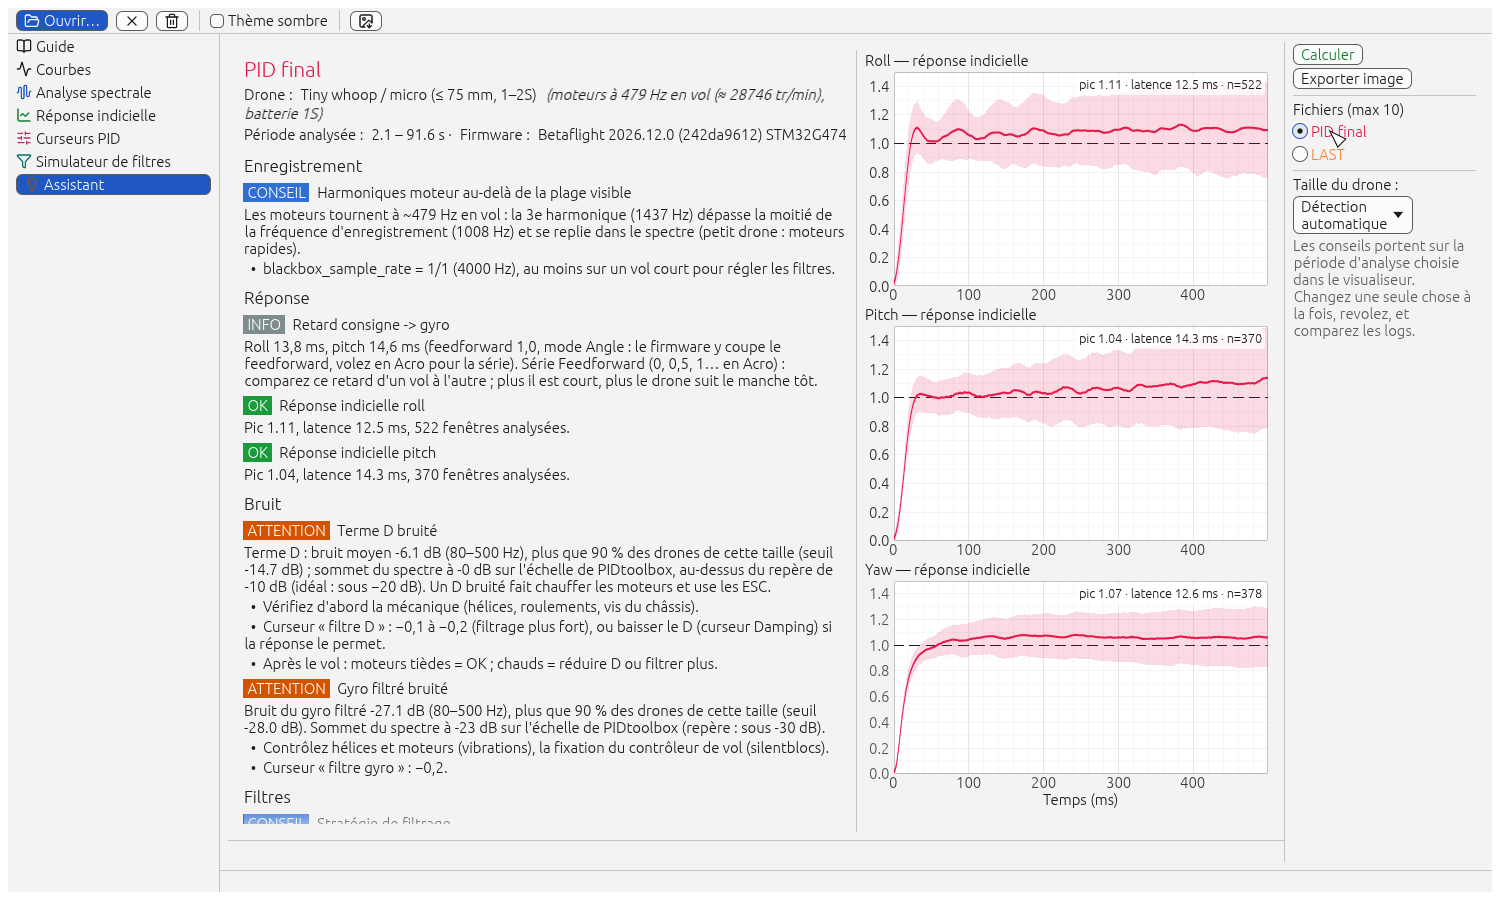
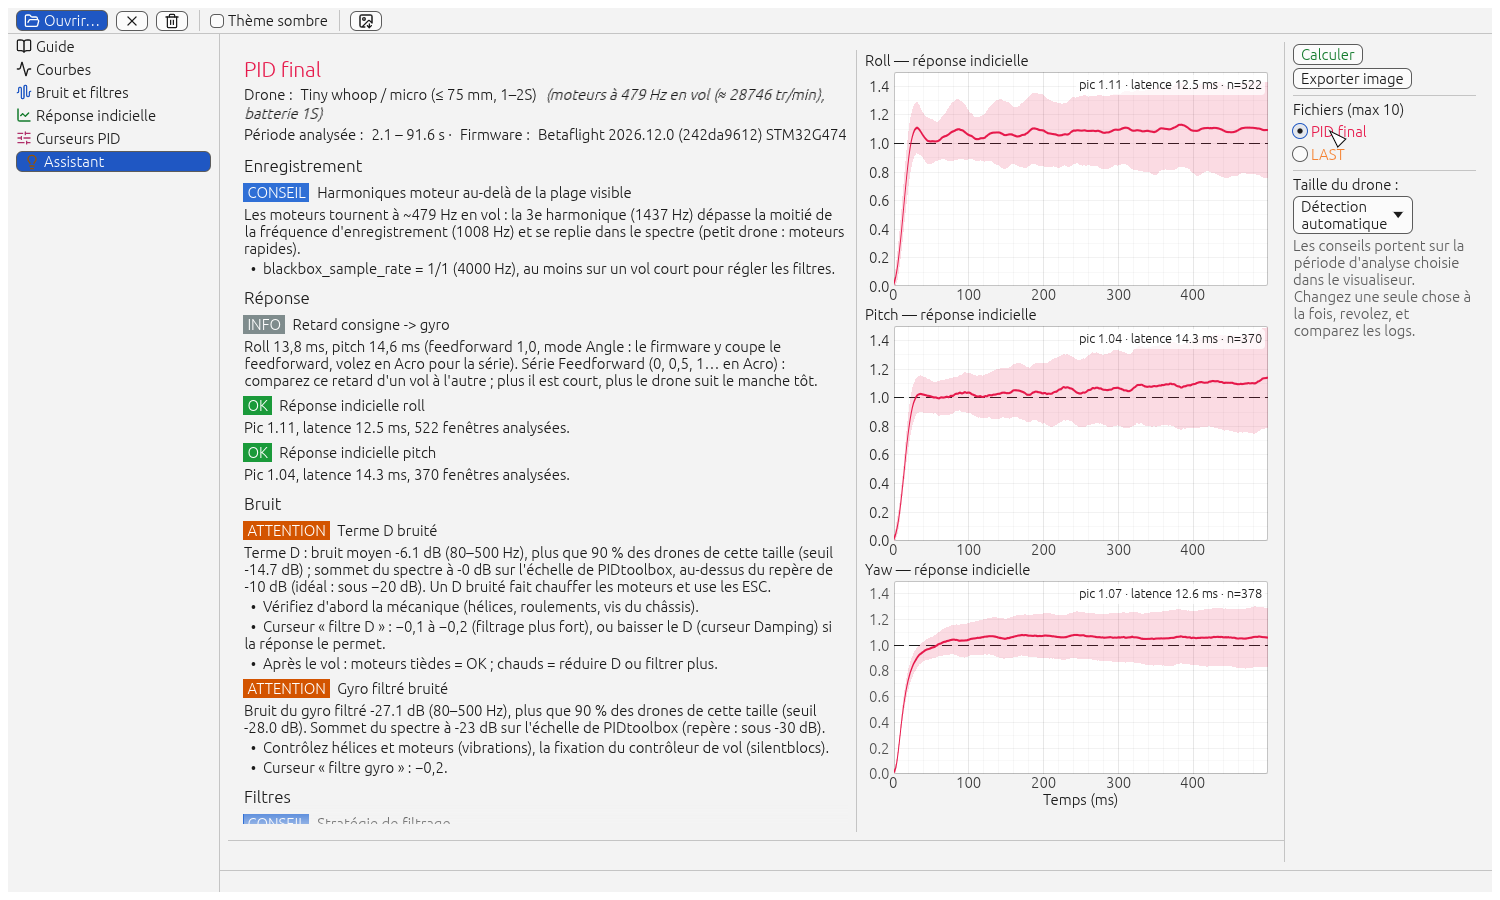
Réunir le bruit et les filtres dans un seul espace (lot 30b)
Le Spectre, Fréq. × gaz, Fréq. × temps et le Simulateur ne font plus qu'une
entrée du rail, « Bruit et filtres », et s'atteignent par ses onglets en haut
de page. Le rail passe de sept entrées à six, comme le prototype.

Le trait de page gagne la notion d'espace : une page déclare SPACE, le rail
porte le nom de l'espace plutôt que celui de l'outil, et les onglets sont
dessinés une seule fois par le socle des pages. Passer d'une vue à l'autre
n'exige pas d'avoir un log ouvert, contrairement aux boutons du Guide, qui
gardent leur comportement : les deux chemins sont désormais séparés.

Les deux raccourcis « Fréq. × gaz » et « Fréq. × temps » du panneau du Spectre
disparaissent : avec les onglets, la page portait deux boutons du même nom, au
point qu'un test ne savait plus lequel cliquer.

La crainte du plan — faire le lot 23 d'abord sous peine de déplacer deux fois
le même code — ne s'est pas réalisée : le regroupement est une affaire de
navigation et n'a pas touché au calcul des filtres.

280 tests de l'interface verts, contre-preuve du nouveau test vue en échec,
captures des deux thèmes regardées, images de la documentation refaites.

Changed region(s): [[0.0, 0.1556, 0.1533, 0.2178], [0.0307, 0.0933, 0.092, 0.1244]]

diff --git a/rust/otb-gui/src/tool.rs b/rust/otb-gui/src/tool.rs
@@ -71,6 +71,9 @@ pub trait Tool {
     const HIDDEN: bool = false;
     /// Bouton de la barre qui reste mis en valeur quand cet outil est affiché (par défaut, le sien).
     const TAB: Option<&'static str> = None;
+    /// Espace auquel cet outil appartient (D-058) : le rail porte alors le nom de l'espace, pas celui de l'outil.
+    /// Plusieurs outils d'un même espace n'y font qu'**une** entrée.
+    const SPACE: Option<&'static str> = None;
 
     /// Copie les réglages de l'interface (appelé dans le thread de l'interface).
     fn options(&self) -> Self::Options;
@@ -105,12 +108,25 @@ pub trait Page {
     fn tab(&self) -> &'static str {
         self.title()
     }
+    /// Espace auquel la page appartient (D-058) : son nom est celui de l'entrée du rail.
+    fn space(&self) -> Option<&'static str> {
+        None
+    }
+    /// Nom de l'entrée du rail pour cette page : celui de son espace, sinon son titre.
+    fn entry(&self) -> &'static str {
+        self.space().unwrap_or_else(|| self.title())
+    }
     /// Un calcul est en cours (captures et tests : attendre sa fin).
     fn busy(&self) -> bool {
         false
     }
     /// Page à ouvrir ensuite (son titre), demandée pendant le dernier affichage.
     fn take_goto(&mut self) -> Option<&'static str> {
+        None
+    }
+    /// Vue d'espace demandée par ses onglets (D-058). Séparée de `take_goto` : passer d'une vue à l'autre d'un
+    /// espace déjà ouvert ne demande **pas** qu'un log soit ouvert, là où les boutons du Guide, eux, l'exigent.
+    fn take_space_goto(&mut self) -> Option<&'static str> {
         None
     }
     /// Le bouton « Exporter image » a été cliqué pendant le dernier affichage : la fenêtre exporte alors toute la page.
@@ -134,6 +150,8 @@ pub struct ToolPage<T: Tool> {
     /// Numéro de la demande mise en attente derrière le calcul en cours.
     queued: Option<u64>,
     export: bool,
+    /// Vue d'espace demandée par ses onglets au dernier affichage (D-058).
+    space_goto: Option<&'static str>,
 }
 
 impl<T: Tool> ToolPage<T> {
@@ -148,6 +166,7 @@ impl<T: Tool> ToolPage<T> {
             in_flight: 0,
             queued: None,
             export: false,
+            space_goto: None,
         }
     }
 
@@ -234,8 +253,16 @@ impl<T: Tool> Page for ToolPage<T> {
         T::TAB.unwrap_or(T::TITLE)
     }
 
+    fn space(&self) -> Option<&'static str> {
+        T::SPACE
+    }
+
     fn take_goto(&mut self) -> Option<&'static str> {
         self.tool.take_goto()
+    }
+
+    fn take_space_goto(&mut self) -> Option<&'static str> {
+        self.space_goto.take()
     }
 
     fn take_export(&mut self) -> bool {
@@ -244,6 +271,13 @@ impl<T: Tool> Page for ToolPage<T> {
 
     fn ui(&mut self, ui: &mut Ui, state: &mut AppState, theme: &Theme) {
         self.update(ui.ctx(), state);
+        // une vue d'espace porte en haut les onglets de son espace (D-058) : les quatre vues du bruit et des
+        // filtres s'atteignent les unes depuis les autres, sans repasser par le rail
+        if T::SPACE.is_some() {
+            egui::Panel::top(format!("{}-espace", T::TITLE)).show(ui, |ui| {
+                self.space_goto = crate::tools::common::space_tabs(ui, T::TITLE, theme);
+            });
+        }
         egui::Panel::right(T::TITLE).show(ui, |ui| {
             ui.horizontal_wrapped(|ui| {
                 if T::RUN_BUTTON {

diff --git a/rust/otb-gui/tests/app.rs b/rust/otb-gui/tests/app.rs
@@ -28,10 +28,9 @@ fn le_rail_porte_les_entrees_de_navigation() {
     for entree in [
         "Guide",
         "Courbes",
-        "Analyse spectrale",
+        "Bruit et filtres",
         "Réponse indicielle",
         "Curseurs PID",
-        "Simulateur de filtres",
         "Assistant",
     ] {
         assert!(
@@ -39,8 +38,14 @@ fn le_rail_porte_les_entrees_de_navigation() {
             "entrée « {entree} » absente du rail"
         );
     }
-    // les vues d'un espace n'ont pas d'entrée à elles
-    for cachee in ["Fréquence × gaz", "Fréquence × temps", "Configuration"] {
+    // les vues d'un espace n'ont pas d'entrée à elles : « Bruit et filtres » en réunit quatre (D-058)
+    for cachee in [
+        "Analyse spectrale",
+        "Fréquence × gaz",
+        "Fréquence × temps",
+        "Simulateur de filtres",
+        "Configuration",
+    ] {
         assert!(
             h.query_by_label(cachee).is_none(),
             "« {cachee} » est une vue d'espace : pas d'entrée de rail"
@@ -55,6 +60,39 @@ fn le_rail_porte_les_entrees_de_navigation() {
         rail.max.x,
         otb_gui::app::RAIL_WIDTH
     );
+}
+
+/// ⚠ D-058 : les quatre vues de l'espace « Bruit et filtres » s'atteignent les unes depuis les autres par ses
+/// onglets, sans repasser par le rail, et le rail reste allumé sur l'espace.
+///
+/// **Contre-preuve** : en rendant `space_goto` toujours `None` dans `take_goto`, le clic sur « Et si » ne change
+/// plus de vue et l'assertion sur le Simulateur rougit.
+#[test]
+fn les_onglets_de_lespace_mènent_aux_quatre_vues() {
+    let mut h = banc(App::new(otb_gui::tools::all_pages()));
+    h.run();
+    h.get_by_label("Bruit et filtres").click();
+    h.run();
+    let titre = |h: &Harness<'static, App>| match h.state().screen {
+        Screen::Tool(i) => h.state().pages[i].title(),
+        autre => panic!("écran inattendu : {autre:?}"),
+    };
+    assert_eq!(titre(&h), "Analyse spectrale", "l'espace s'ouvre sur sa première vue");
+    for (onglet, attendu) in [
+        ("Et si", "Simulateur de filtres"),
+        ("Fréq. × temps", "Fréquence × temps"),
+        ("Fréq. × gaz", "Fréquence × gaz"),
+        ("Spectre", "Analyse spectrale"),
+    ] {
+        h.get_by_label(onglet).click();
+        h.run();
+        assert_eq!(titre(&h), attendu, "onglet « {onglet} »");
+        // le rail reste allumé sur l'espace, quelle que soit la vue
+        assert!(
+            h.query_by_label("Bruit et filtres").is_some(),
+            "l'entrée de l'espace reste dans le rail"
+        );
+    }
 }
 
 /// Cliquer une entrée du rail change d'écran, et l'entrée cliquée devient celle qui est mise en valeur.

diff --git a/rust/otb-gui/src/app.rs b/rust/otb-gui/src/app.rs
@@ -82,7 +82,8 @@ fn tab_button<'a>(title: &'a str, on: bool, theme: &Theme) -> egui::Button<'a> {
 pub fn tab_icon(title: &str) -> Option<(&'static str, Option<&'static str>)> {
     match title {
         "Courbes" => Some(("activity", None)),
-        "Analyse spectrale" => Some(("audio-waveform", Some("blue"))),
+        // l'espace du bruit et des filtres garde l'icône et la couleur de sa première vue (D-058)
+        "Bruit et filtres" | "Analyse spectrale" => Some(("audio-waveform", Some("blue"))),
         "Réponse indicielle" => Some(("chart-line", Some("green"))),
         "Curseurs PID" => Some(("sliders-horizontal", Some("pink"))),
         "Simulateur de filtres" => Some(("funnel", Some("teal"))),
@@ -392,8 +393,9 @@ impl App {
                         self.screen = Screen::Viewer;
                     }
                     for (i, p) in self.pages.iter().enumerate().filter(|(_, p)| !p.hidden()) {
+                        // l'entrée porte le nom de l'espace quand la page en fait partie (D-058)
                         let on = self.screen == Screen::Tool(i) || shown == Some(p.title());
-                        if ui.add(tab_button(p.title(), on, theme).frame(on)).clicked() {
+                        if ui.add(tab_button(p.entry(), on, theme).frame(on)).clicked() {
                             self.screen = Screen::Tool(i);
                         }
                     }
@@ -513,6 +515,7 @@ impl App {
             ui.label(status_line(&self.status, &self.export_status, busy));
         });
         let mut goto = None;
+        let mut space_goto = None;
         let mut export_page = false;
         let mut guide_actions = Vec::new();
         // la page d'un outil : sous la barre du haut, au-dessus de la barre d'état, sur toute la largeur de la fenêtre
@@ -530,10 +533,17 @@ impl App {
             Screen::Tool(i) if i < self.pages.len() => {
                 self.pages[i].ui(ui, &mut self.state, &theme);
                 goto = self.pages[i].take_goto();
+                space_goto = self.pages[i].take_space_goto();
                 export_page = self.pages[i].take_export();
             }
             _ => guide_actions = self.guide.ui(ui, &mut self.state, &theme),
         });
+        // une vue d'espace s'ouvre directement : pas la peine d'avoir un log pour passer du Spectre au « Et si »
+        if let Some(title) = space_goto
+            && let Some(j) = self.pages.iter().position(|p| p.title() == title)
+        {
+            self.screen = Screen::Tool(j);
+        }
         if let Some(title) = goto {
             self.open_tool(title);
         }

diff --git a/rust/otb-gui/src/tools/common.rs b/rust/otb-gui/src/tools/common.rs
@@ -8,10 +8,39 @@ use otb_analysis::motors;
 use otb_log::flightlog::{FlightLog, Rows};
 
 use crate::state::{AppState, MAX_LOGS};
-use crate::theme::{AXIS_NAMES, file_color, motor_color};
+use crate::theme::{AXIS_NAMES, Theme, file_color, motor_color};
 use crate::tools::filter_sim_calc::DYN_COUNT_MAX;
 
 pub const MOTOR_LABELS: [&str; 4] = ["M1/5", "M2/6", "M3/7", "M4/8"];
+
+/// Nom de l'espace qui réunit le bruit et les filtres (D-058) : une seule entrée de rail pour quatre vues.
+pub const ESPACE_BRUIT: &str = "Bruit et filtres";
+
+/// Les quatre vues de l'espace « Bruit et filtres » : **nom court affiché** (celui des pages du Guide et des
+/// maquettes) et titre de la page à ouvrir.
+pub const VUES_BRUIT: [(&str, &str); 4] = [
+    ("Spectre", "Analyse spectrale"),
+    ("Fréq. × gaz", "Fréquence × gaz"),
+    ("Fréq. × temps", "Fréquence × temps"),
+    ("Et si", "Simulateur de filtres"),
+];
+
+/// La barre d'onglets d'un espace, en haut de chacune de ses vues : rend le titre de la page à ouvrir quand on
+/// clique une autre vue. L'onglet de la vue affichée est mis en valeur et ne fait rien.
+pub fn space_tabs(ui: &mut Ui, courante: &'static str, th: &Theme) -> Option<&'static str> {
+    let mut aller = None;
+    ui.horizontal_wrapped(|ui| {
+        for (court, titre) in VUES_BRUIT {
+            let ici = titre == courante;
+            let texte = RichText::new(court).color(if ici { th.ui.text } else { th.accent("blue") });
+            if ui.add(egui::Button::new(texte).selected(ici).frame(ici)).clicked() && !ici {
+                aller = Some(titre);
+            }
+        }
+    });
+    ui.separator();
+    aller
+}
 
 /// Mémoire de la vue d'un graphique : les bornes ne sont remises aux valeurs des réglages que quand la clé de ces
 /// réglages change (le zoom de l'utilisateur reste sinon) ; « Tout voir » l'oublie pour les remettre au cadre suivant.

diff --git a/rust/otb-gui/tests/spectral.rs b/rust/otb-gui/tests/spectral.rs
@@ -207,8 +207,10 @@ fn la_page_affiche_les_deux_colonnes_et_bascule_vers_le_bruit_moteur() {
     h.run();
     h.get_by_label("Spectre complet");
     h.get_by_label("Sous 100 Hz");
-    // l'outil est un onglet de la barre, mis en valeur
-    h.get_by_label("Analyse spectrale");
+    // la vue appartient à l'espace « Bruit et filtres » : c'est son entrée qui est dans le rail (D-058),
+    // et l'onglet « Spectre » qui désigne la vue affichée
+    h.get_by_label("Bruit et filtres");
+    h.get_by_label("Spectre");
     // « Bruit moteur » : choix dans la liste déroulante
     h.get_by_value("< 100 Hz").click();
     h.run_steps(2);
@@ -355,8 +357,8 @@ fn le_bruit_moteur_compte_les_harmoniques_des_20_hz() {
 #[test]
 fn tous_les_jeux_de_donnees_sont_visibles_sans_ascenseur() {
     let h = banc();
-    // la liste est suivie du bouton « Fréq. × gaz » : le dernier jeu doit être au-dessus de lui, pas replié dans un ascenseur
-    let suite = h.get_by_label("Fréq. × gaz").rect().min.y;
+    // la liste est suivie de la case « PSD (dB) » : le dernier jeu doit être au-dessus d'elle, pas replié dans un ascenseur
+    let suite = h.get_by_label("PSD (dB)").rect().min.y;
     for (_, label) in otb_analysis::datasets::DATASETS {
         let r = h.get_by_label(label).rect();
         assert!(

diff --git a/rust/otb-gui/src/tools/spectral.rs b/rust/otb-gui/src/tools/spectral.rs
@@ -492,6 +492,7 @@ impl Tool for SpectralTool {
     type Options = Options;
     type Output = SpectralOutput;
     const TITLE: &'static str = "Analyse spectrale";
+    const SPACE: Option<&'static str> = Some(crate::tools::common::ESPACE_BRUIT);
     const HAS_VIEW: bool = true;
 
     fn reset_view(&mut self) {
@@ -600,14 +601,8 @@ impl Tool for SpectralTool {
             for (i, (_, label)) in DATASETS.iter().enumerate() {
                 ui.checkbox(&mut self.datasets[i], *label);
             }
-            ui.horizontal(|ui| {
-                for (title, color) in [("Fréq. × gaz", "red"), ("Fréq. × temps", "purple")] {
-                    let b = egui::Button::new(RichText::new(title).color(theme.accent(color)).strong());
-                    if ui.add(b).clicked() {
-                        self.goto = Some(if title == "Fréq. × gaz" { "Fréquence × gaz" } else { "Fréquence × temps" });
-                    }
-                }
-            });
+            // Fréq. × gaz et Fréq. × temps s'atteignent par les onglets de l'espace, en haut de la page (D-058) :
+            // deux boutons de plus ici feraient deux chemins pour le même geste
             ui.separator();
             let mut psd = self.psd;
             ui.horizontal(|ui| {

diff --git a/rust/otb-gui/tests/freq_throttle.rs b/rust/otb-gui/tests/freq_throttle.rs
@@ -278,11 +278,11 @@ fn le_bouton_du_spectre_ouvre_l_outil_sans_bouton_propre_dans_la_barre() {
     h.get_by_label("Fréq. × gaz").click();
     attendre(&mut h);
     assert_eq!(h.state().screen, Screen::Tool(1));
-    // les cartes sont là, et la barre garde « Analyse spectrale » en valeur
+    // les cartes sont là, et le rail garde l'espace « Bruit et filtres » en valeur (D-058)
     // chaque champ de la page a un nom accessible (le banc le vérifie à la fin de `run`)
     h.run();
     h.get_by_label_contains("Gyro préfiltre | jeno5_5s");
-    h.get_by_label("Analyse spectrale");
+    h.get_by_label("Bruit et filtres");
     h.get_by_label("Échelle auto").click();
     attendre(&mut h);
 }

diff --git a/rust/otb-gui/tests/contracts.rs b/rust/otb-gui/tests/contracts.rs
@@ -224,6 +224,8 @@ fn chaque_onglet_de_la_barre_a_son_icone_et_sa_couleur_comme_python() {
     // `gui/main_window.py:TOOLS` : (titre Rust, icône, couleur) ; « Courbes » = le visualiseur, sans couleur
     for (titre, icone, couleur) in [
         ("Courbes", "activity", None),
+        // l'espace garde l'icône et la couleur de sa première vue (D-058)
+        ("Bruit et filtres", "audio-waveform", Some("blue")),
         ("Analyse spectrale", "audio-waveform", Some("blue")),
         ("Réponse indicielle", "chart-line", Some("green")),
         ("Curseurs PID", "sliders-horizontal", Some("pink")),

diff --git a/rust/otb-gui/src/tools/filter_sim.rs b/rust/otb-gui/src/tools/filter_sim.rs
@@ -727,6 +727,9 @@ impl Tool for FilterSimTool {
     type Options = Options;
     type Output = Arc<FilterSimResult>;
     const TITLE: &'static str = "Simulateur de filtres";
+    const HIDDEN: bool = true;
+    const TAB: Option<&'static str> = Some("Analyse spectrale");
+    const SPACE: Option<&'static str> = Some(crate::tools::common::ESPACE_BRUIT);
     const HAS_VIEW: bool = true;
 
     fn reset_view(&mut self) {

diff --git a/rust/otb-gui/src/tools/freq_throttle.rs b/rust/otb-gui/src/tools/freq_throttle.rs
@@ -429,6 +429,7 @@ impl Tool for FreqThrottleTool {
     type Options = Options;
     type Output = FreqThrottleOutput;
     const TITLE: &'static str = "Fréquence × gaz";
+    const SPACE: Option<&'static str> = Some(crate::tools::common::ESPACE_BRUIT);
     const HAS_VIEW: bool = true;
     const HIDDEN: bool = true;
     const TAB: Option<&'static str> = Some("Analyse spectrale");

diff --git a/rust/otb-gui/src/tools/freq_time.rs b/rust/otb-gui/src/tools/freq_time.rs
@@ -214,6 +214,7 @@ impl Tool for FreqTimeTool {
     type Options = Options;
     type Output = FreqTimeOutput;
     const TITLE: &'static str = "Fréquence × temps";
+    const SPACE: Option<&'static str> = Some(crate::tools::common::ESPACE_BRUIT);
     const HAS_VIEW: bool = true;
     const HIDDEN: bool = true;
     const TAB: Option<&'static str> = Some("Analyse spectrale");

diff --git a/docs/plan.md b/docs/plan.md
@@ -320,8 +320,21 @@ d'entrée unique — un espace s'y enregistre comme un outil, et chaque vue inte
 
 - [ ] **Tableau de bord** : cartes de drones, timeline des fragments à droite (le plus récent en haut), « + » pour
       ajouter un fragment à la liste d'analyse.
-- [ ] **Espace « Bruit et filtres »** : Gyro / Terme D, les trois vues en onglets, panneau de filtres modifiable
-      qui remplace le Simulateur. **Faire le lot 23 d'abord** : sinon le même code est déplacé deux fois.
+**Fait le 2026-11-19 — 30b, l'espace** :
+
+- [x] **Espace « Bruit et filtres »** : une seule entrée de rail pour le Spectre, Fréq. × gaz, Fréq. × temps et le
+      « Et si » des filtres, avec ses **onglets en haut de page** (`space_tabs`). Le trait de page gagne la notion
+      d'espace (`SPACE`), et passer d'une vue à l'autre n'exige pas d'avoir un log ouvert, contrairement aux
+      boutons du Guide. Les deux raccourcis du panneau du Spectre disparaissent : deux chemins pour le même geste
+      faisaient deux boutons du même nom sur la page.
+- [x] **Preuve** : `les_onglets_de_lespace_mènent_aux_quatre_vues` avec contre-preuve vue en échec, **280 tests de
+      l'interface verts**, captures des deux thèmes regardées, images de la documentation refaites.
+- [x] La crainte du plan — « faire le lot 23 d'abord, sinon le même code est déplacé deux fois » — **ne s'est pas
+      réalisée** : le regroupement est une affaire de navigation (`tool.rs`, `app.rs`), et n'a pas touché au calcul
+      des filtres. Le lot 23 reste indépendant.
+
+- [ ] **Gyro / Terme D dans l'espace** : le choix du signal, que le prototype montre en tête de l'espace, reste à
+      faire (les vues gardent pour l'instant leurs propres cases).
 - [ ] **Assistant en cartes** triées par gravité, mesure contre seuil en jauge, constats « OK » repliés. ⚠ Un
       constat se reconnaît par sa clé, jamais par son titre (D-028).
 - [ ] **Preuve** : captures hors écran avant / après sur les deux thèmes, et le temps de cadre mesuré
